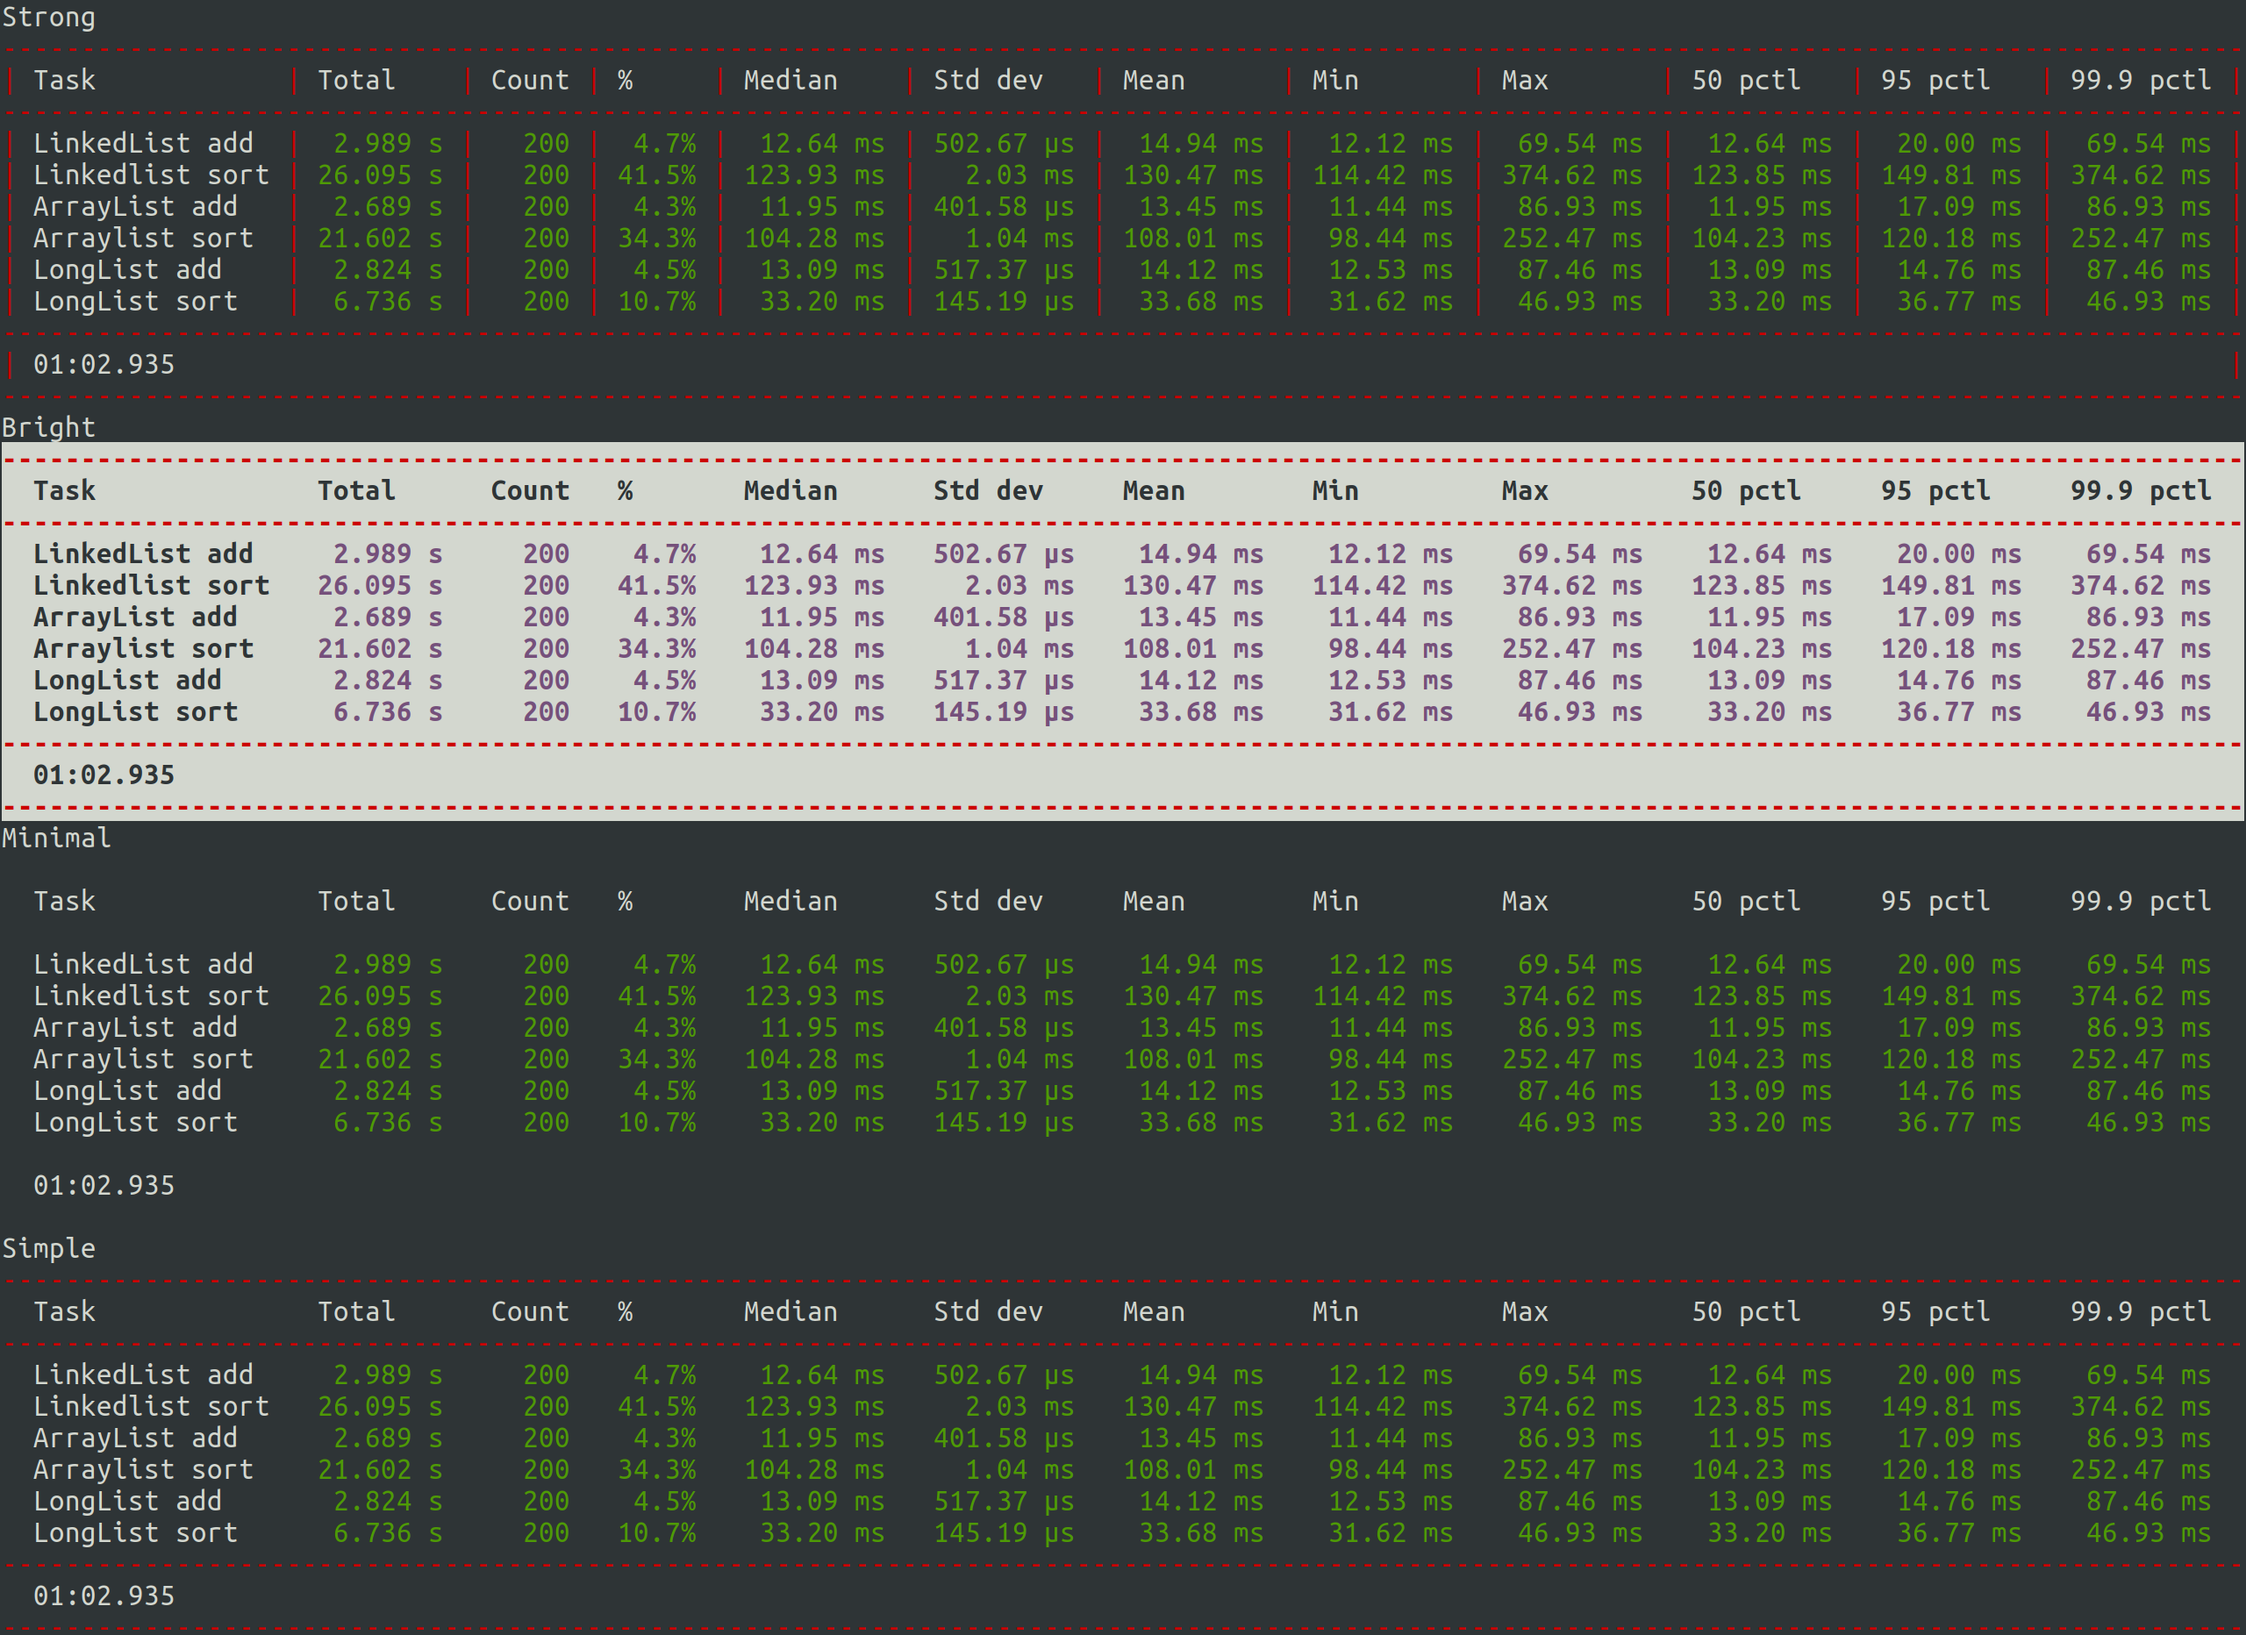
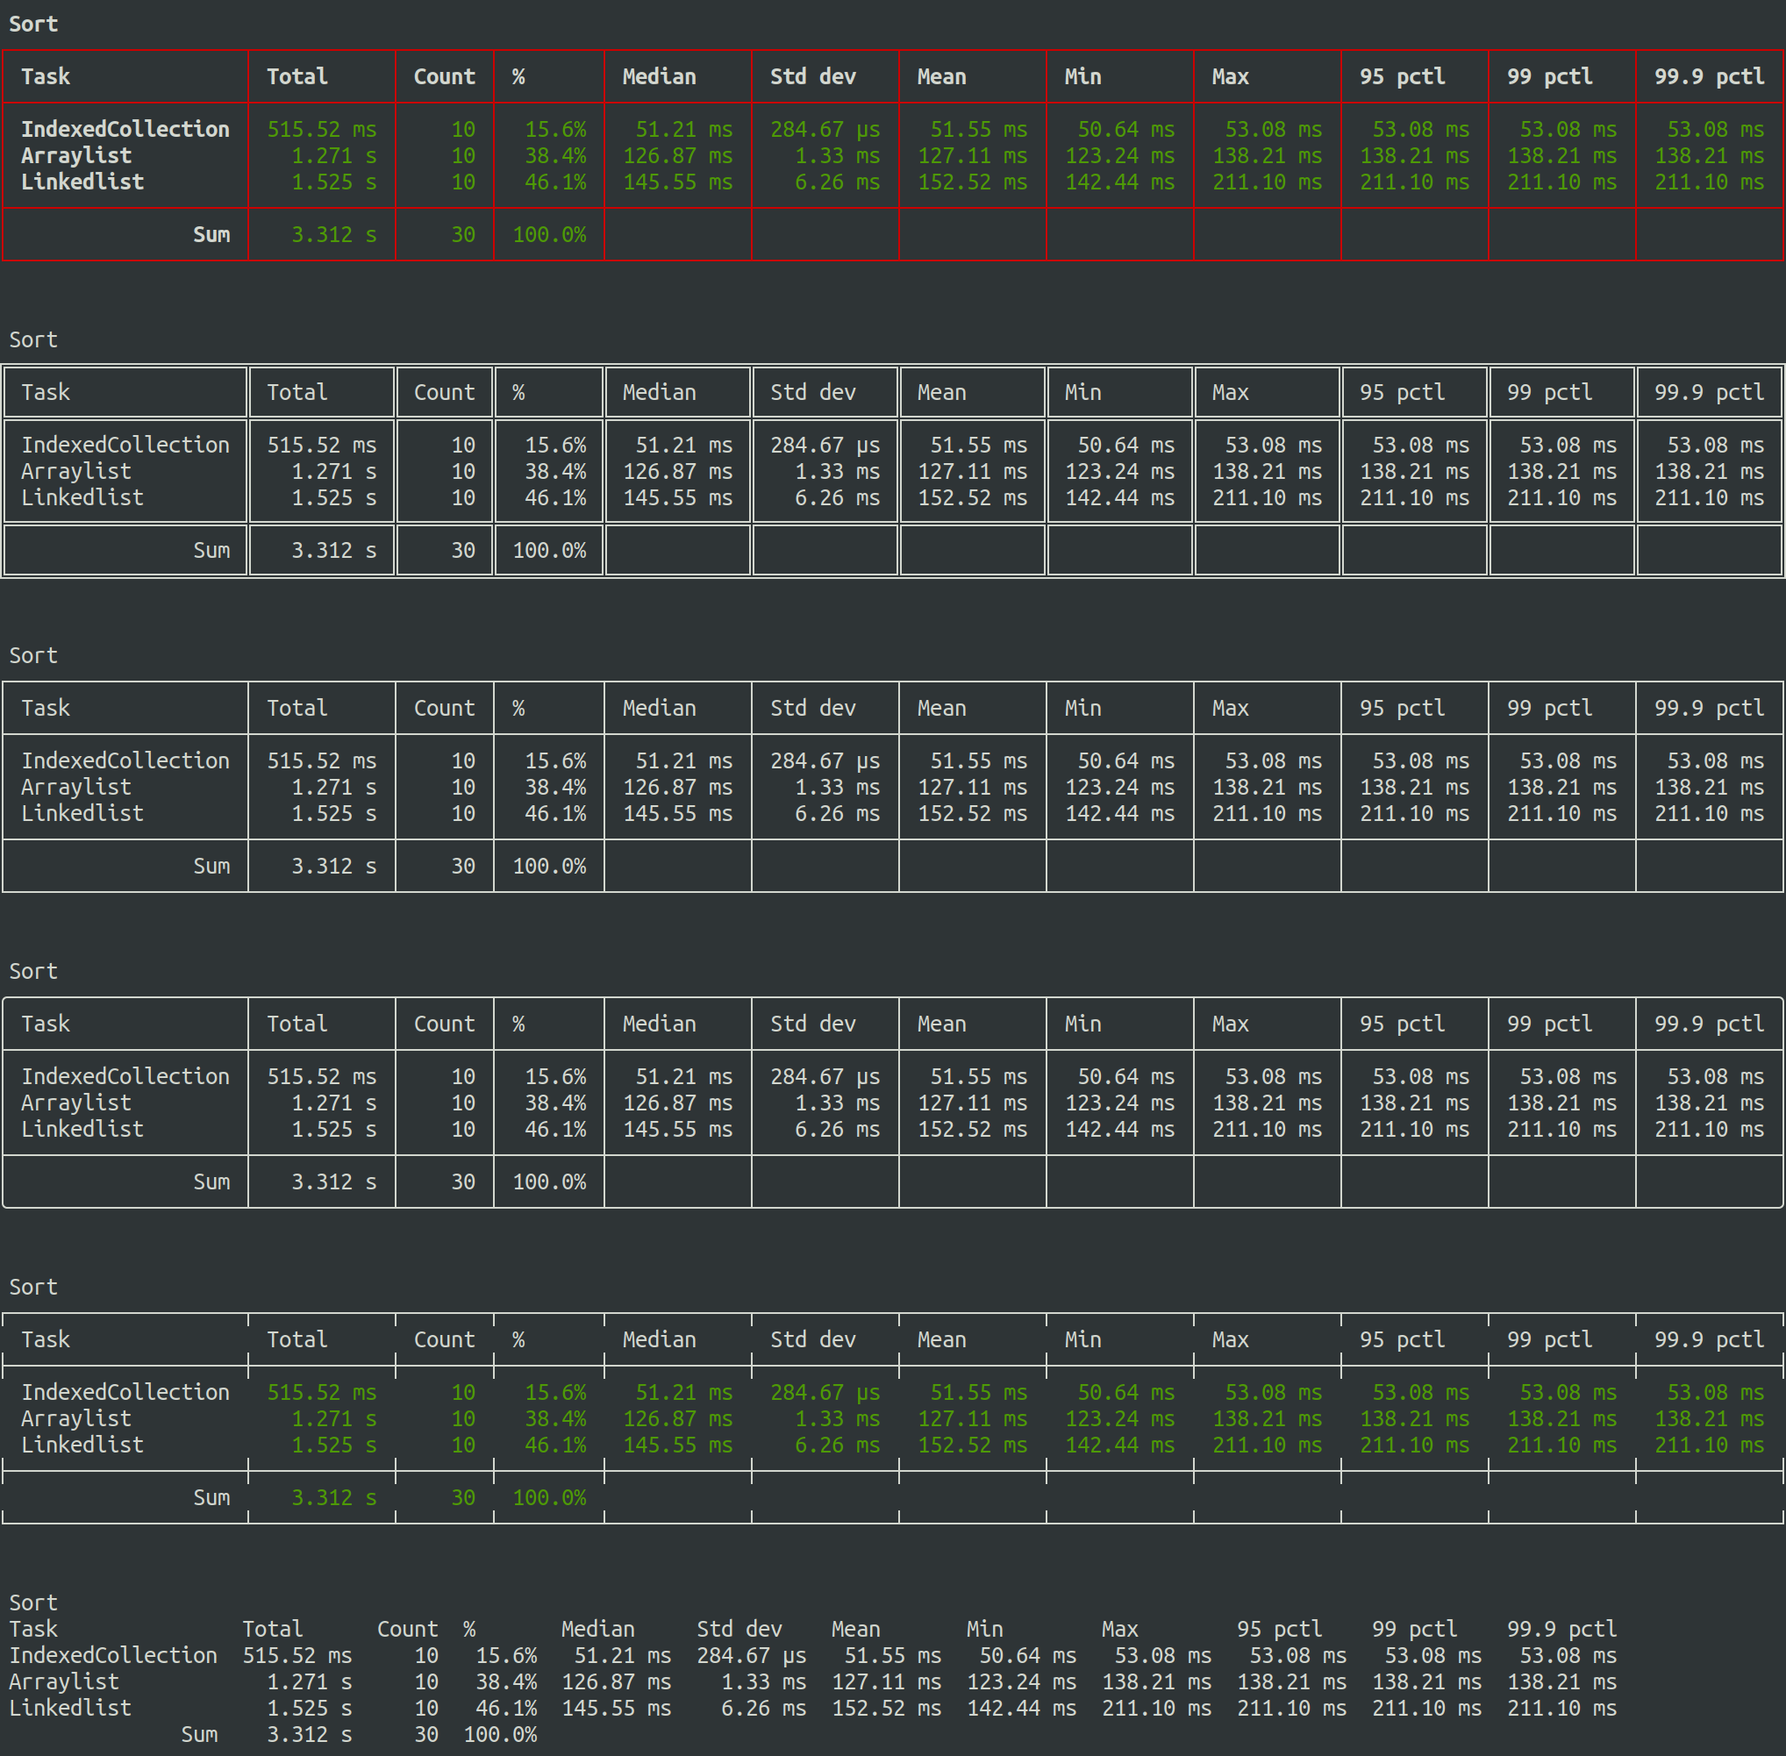
Show themes

diff --git a/src/test/java/com/ethlo/util/ListPerformanceTest.java b/src/test/java/com/ethlo/util/ListPerformanceTest.java
@@ -140,6 +140,11 @@ public class ListPerformanceTest
     {
         final Chronograph c = performSortBenchmark(10, 500_000);
         output(c, TableTheme.RED_HERRING);
+        output(c, TableTheme.DOUBLE);
+        output(c, TableTheme.DEFAULT);
+        output(c, TableTheme.ROUNDED);
+        output(c, TableTheme.MINIMAL);
+        output(c, TableTheme.COMPACT);
         assertThat(true).isTrue();
     }
 
